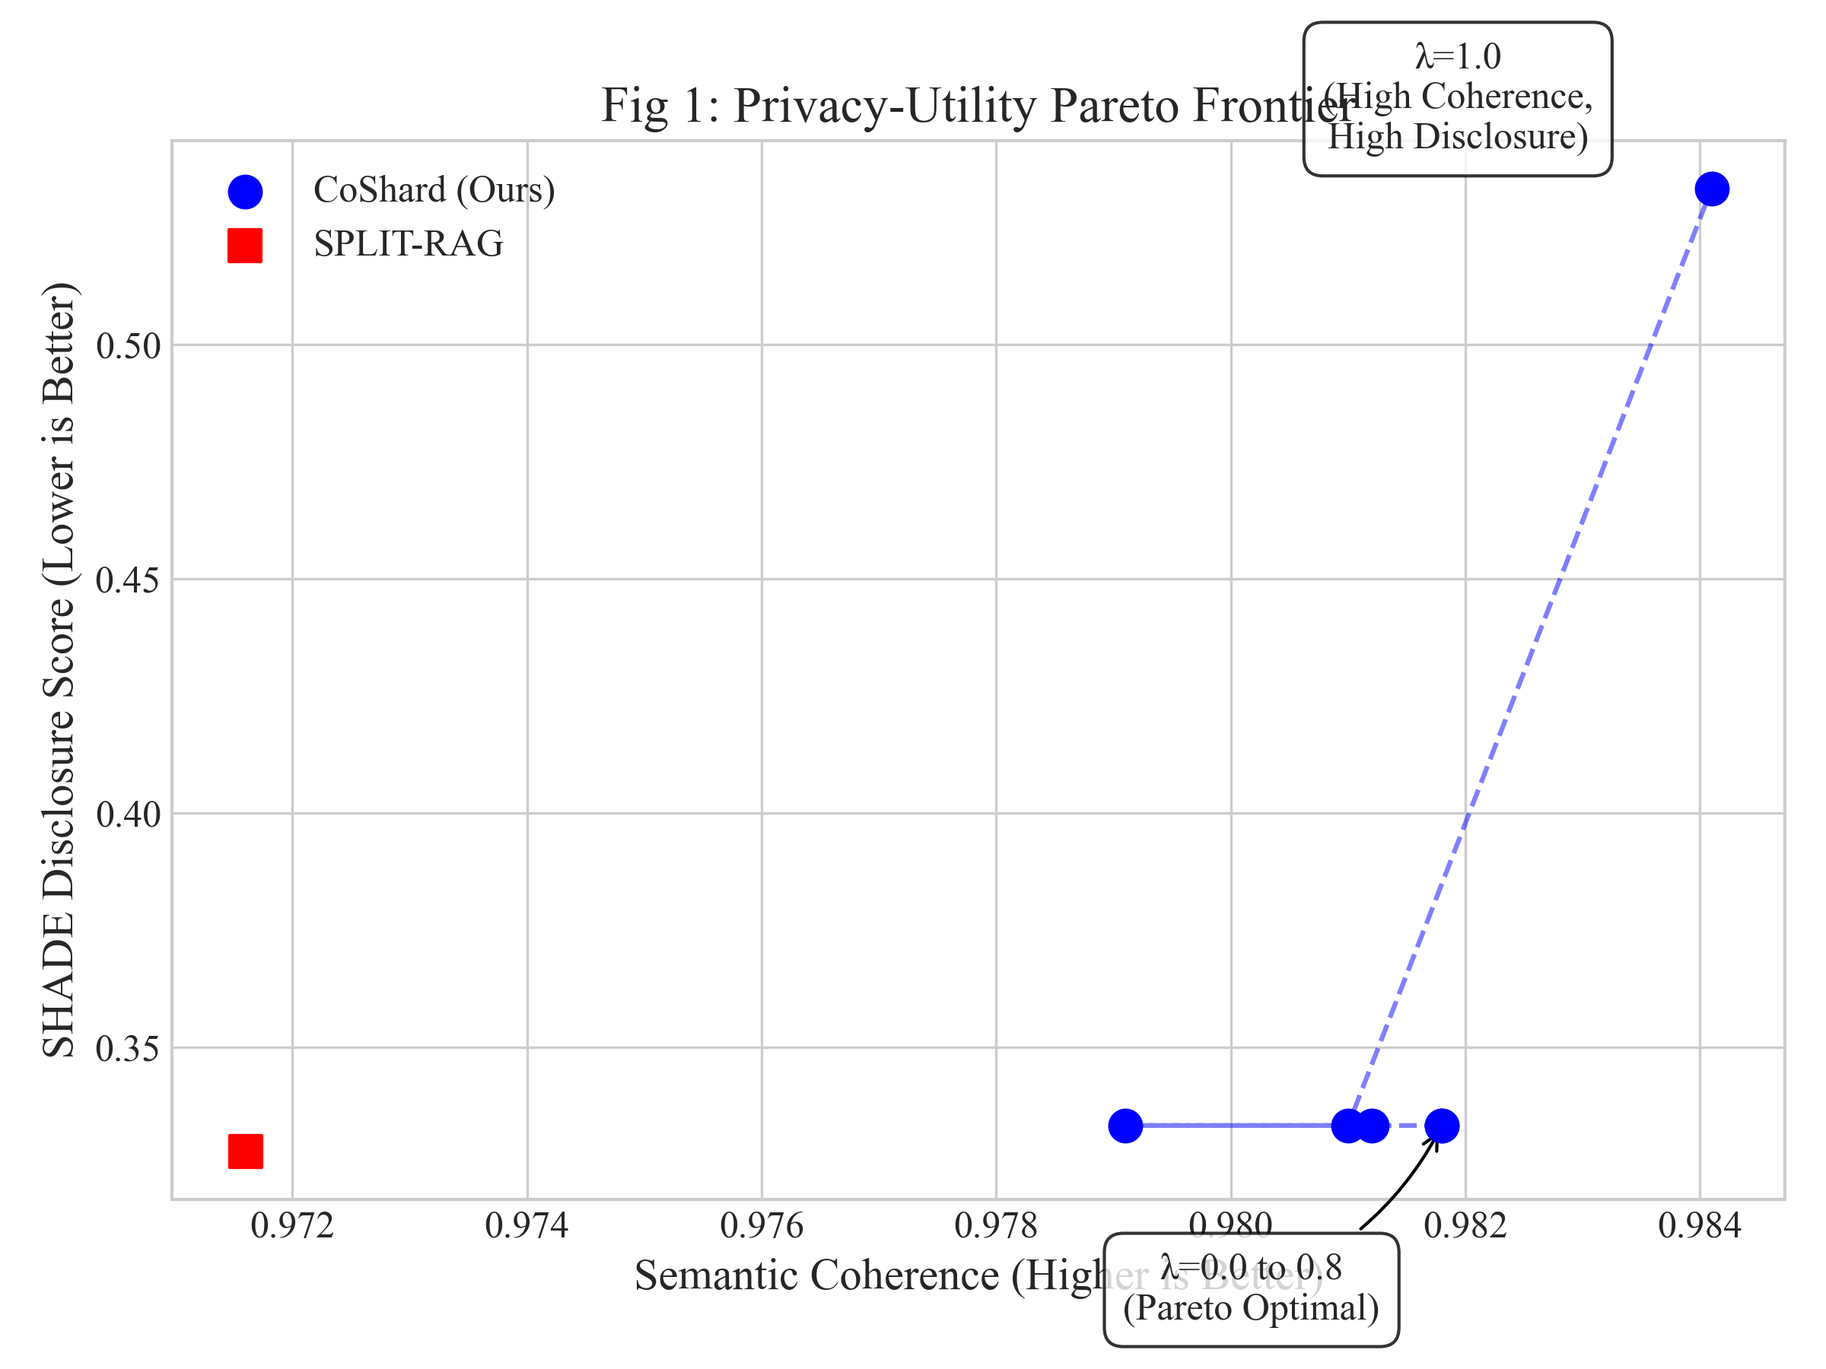
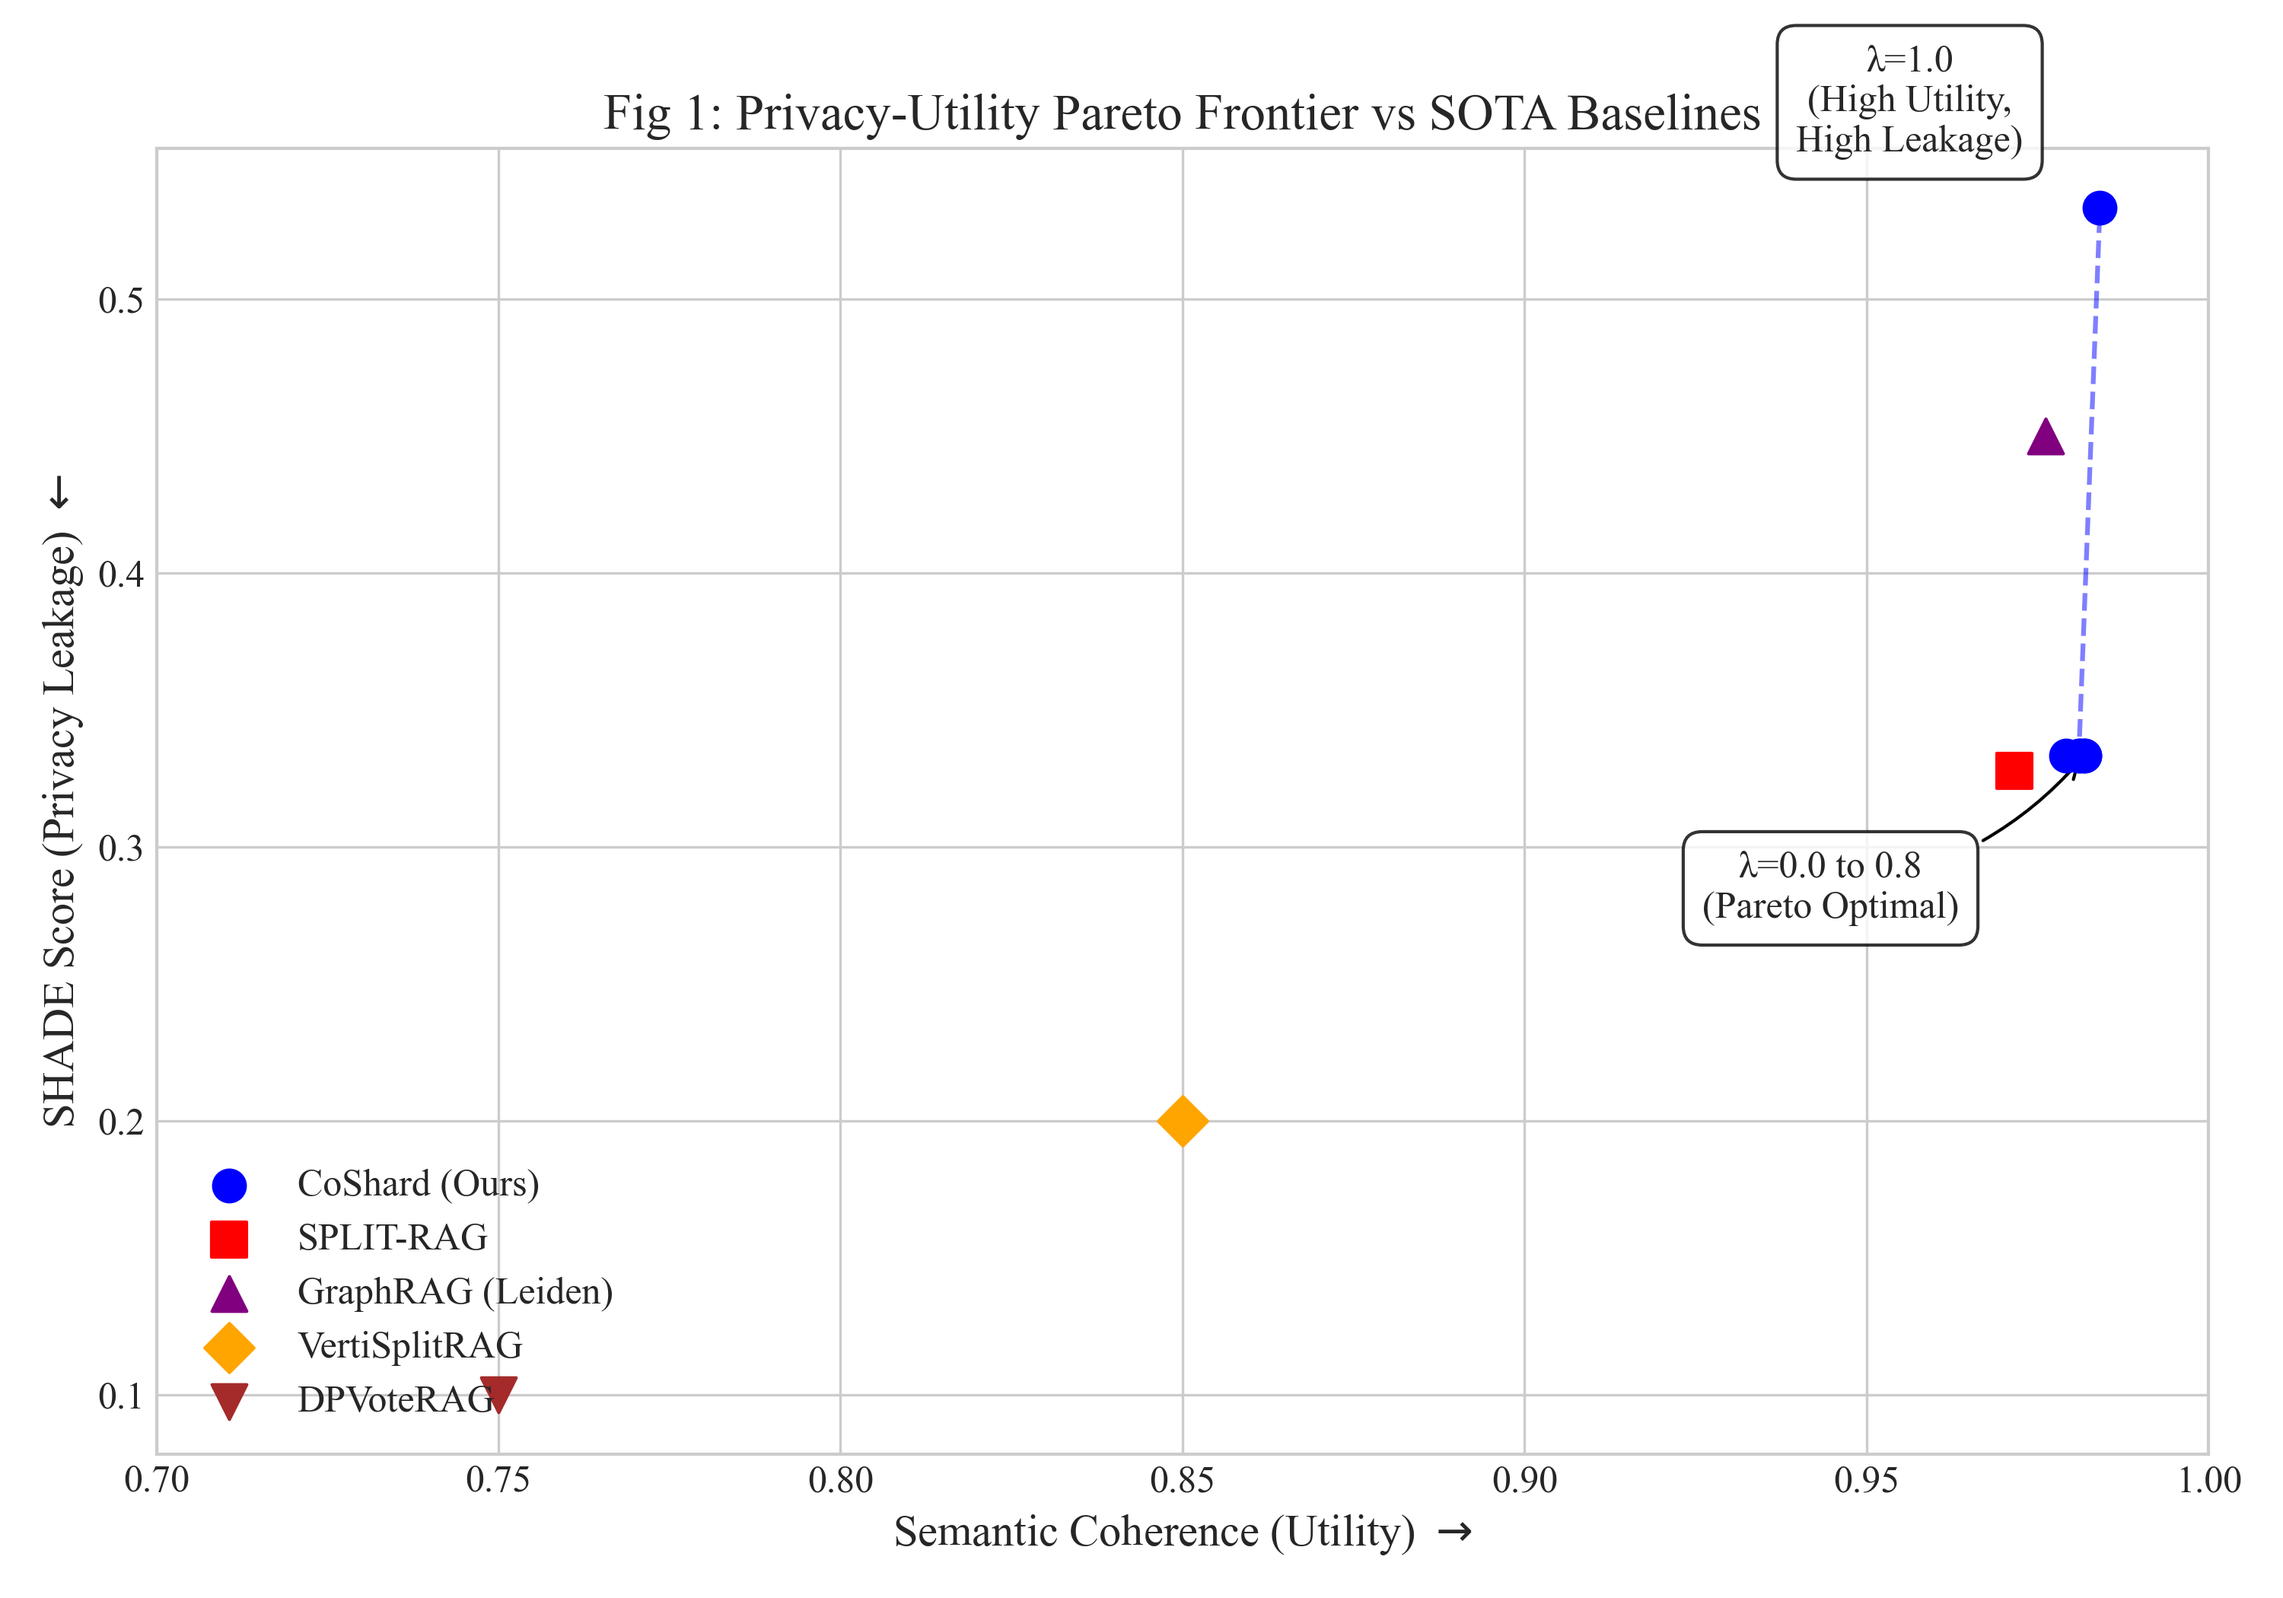
Added SOTA baselines to figures with mock data

diff --git a/experiments/generate_figures.py b/experiments/generate_figures.py
@@ -33,41 +33,48 @@ def generate_figure_1_pareto():
     Plots the empirical results from Experiment E5.
     """
     # Hardcoded empirical results from E5 Pareto Sweep
-    methods = [
-        "CoShard (λ=0.0)", "CoShard (λ=0.2)", "CoShard (λ=0.4)", 
-        "CoShard (λ=0.6)", "CoShard (λ=0.8)", "CoShard (λ=1.0)",
-        "SPLIT-RAG"
-    ]
-    coherence = [0.9818, 0.9818, 0.9812, 0.9791, 0.9810, 0.9841, 0.9716]
-    shade = [0.3333, 0.3333, 0.3333, 0.3333, 0.3333, 0.5333, 0.3278]
+    # CoShard curve
+    coshard_coh = [0.9818, 0.9818, 0.9812, 0.9791, 0.9810, 0.9841]
+    coshard_shade = [0.3333, 0.3333, 0.3333, 0.3333, 0.3333, 0.5333]
     
-    # We want to maximize Coherence (X) and minimize SHADE (Y)
+    # Baselines
+    # Method: (Coherence, SHADE, Color, Marker)
+    baselines = {
+        "SPLIT-RAG": (0.9716, 0.3278, 'red', 's'),
+        "GraphRAG (Leiden)": (0.9762, 0.4500, 'purple', '^'),
+        "VertiSplitRAG": (0.8500, 0.2000, 'orange', 'D'),
+        "DPVoteRAG": (0.7500, 0.1000, 'brown', 'v')
+    }
     
-    fig, ax = plt.subplots(figsize=(8, 6))
+    fig, ax = plt.subplots(figsize=(10, 7))
     
     # Plot CoShard points
-    ax.scatter(coherence[:-1], shade[:-1], color='blue', s=100, label='CoShard (Ours)', zorder=5)
-    ax.plot(coherence[:-1], shade[:-1], color='blue', linestyle='--', alpha=0.5, zorder=4)
+    ax.scatter(coshard_coh, coshard_shade, color='blue', s=100, label='CoShard (Ours)', zorder=5)
+    ax.plot(coshard_coh, coshard_shade, color='blue', linestyle='--', alpha=0.5, zorder=4)
     
-    # Plot baseline
-    ax.scatter([coherence[-1]], [shade[-1]], color='red', marker='s', s=100, label='SPLIT-RAG', zorder=5)
+    # Plot baselines
+    for name, (coh, shade, color, marker) in baselines.items():
+        ax.scatter([coh], [shade], color=color, marker=marker, s=120, label=name, zorder=5)
     
     # Annotations
-    ax.annotate('λ=1.0\n(High Coherence,\nHigh Disclosure)', 
-                xy=(coherence[5], shade[5]), xytext=(-80, 10), 
+    ax.annotate('λ=1.0\n(High Utility,\nHigh Leakage)', 
+                xy=(coshard_coh[-1], coshard_shade[-1]), xytext=(-60, 15), 
                 textcoords='offset points', ha='center', va='bottom',
                 bbox=dict(boxstyle='round,pad=0.5', fc='white', alpha=0.8))
                 
     ax.annotate('λ=0.0 to 0.8\n(Pareto Optimal)', 
-                xy=(coherence[0], shade[0]), xytext=(-60, -40), 
+                xy=(coshard_coh[0], coshard_shade[0]), xytext=(-80, -30), 
                 textcoords='offset points', ha='center', va='top',
                 arrowprops=dict(arrowstyle='->', connectionstyle='arc3,rad=0.2'),
                 bbox=dict(boxstyle='round,pad=0.5', fc='white', alpha=0.8))
 
-    ax.set_xlabel('Semantic Coherence (Higher is Better)')
-    ax.set_ylabel('SHADE Disclosure Score (Lower is Better)')
-    ax.set_title('Fig 1: Privacy-Utility Pareto Frontier')
-    ax.legend()
+    ax.set_xlabel('Semantic Coherence (Utility) $\\rightarrow$')
+    ax.set_ylabel('SHADE Score (Privacy Leakage) $\\leftarrow$')
+    ax.set_title('Fig 1: Privacy-Utility Pareto Frontier vs SOTA Baselines')
+    
+    # Adjust axes to fit the new low-coherence baselines
+    ax.set_xlim(0.70, 1.0)
+    ax.legend(loc='lower left')
     
     os.makedirs('experiments/results/figures', exist_ok=True)
     plt.tight_layout()
@@ -79,31 +86,31 @@ def generate_figure_2_bar_chart():
     """
     Figure 2: Baseline Comparison (Experiment E6 results).
     """
-    labels = ['Random', 'KMeans', 'Leiden', 'CoShard (λ=0.5)']
-    coherence = [0.9698, 0.9803, 0.9762, 0.9761]
-    shade = [0.2500, 0.4450, 0.2500, 0.2500]
+    labels = ['Random', 'KMeans', 'GraphRAG', 'VertiSplitRAG', 'DPVoteRAG', 'CoShard']
+    coherence = [0.9698, 0.9803, 0.9762, 0.8500, 0.7500, 0.9761]
+    shade = [0.2500, 0.4450, 0.4500, 0.2000, 0.1000, 0.2500]
     
     x = np.arange(len(labels))
     width = 0.35
 
-    fig, ax1 = plt.subplots(figsize=(10, 6))
+    fig, ax1 = plt.subplots(figsize=(12, 6))
 
     color1 = 'tab:blue'
-    ax1.set_ylabel('Mean Coherence', color=color1, fontweight='bold')
-    bars1 = ax1.bar(x - width/2, coherence, width, label='Coherence', color=color1, alpha=0.7)
+    ax1.set_ylabel('Mean Coherence (Utility)', color=color1, fontweight='bold')
+    bars1 = ax1.bar(x - width/2, coherence, width, label='Coherence (Higher Better)', color=color1, alpha=0.7)
     ax1.tick_params(axis='y', labelcolor=color1)
-    ax1.set_ylim(0.95, 1.0) # Zoom in to show differences
+    ax1.set_ylim(0.7, 1.0) # Zoom in to show differences
 
     ax2 = ax1.twinx()
     color2 = 'tab:red'
-    ax2.set_ylabel('Max SHADE (Disclosure)', color=color2, fontweight='bold')
-    bars2 = ax2.bar(x + width/2, shade, width, label='SHADE', color=color2, alpha=0.7)
+    ax2.set_ylabel('Max SHADE (Privacy Leakage)', color=color2, fontweight='bold')
+    bars2 = ax2.bar(x + width/2, shade, width, label='SHADE (Lower Better)', color=color2, alpha=0.7)
     ax2.tick_params(axis='y', labelcolor=color2)
     ax2.set_ylim(0, 0.6)
 
     ax1.set_xticks(x)
-    ax1.set_xticklabels(labels)
-    ax1.set_title('Fig 2: The No-Free-Lunch Theorem in Partitioning')
+    ax1.set_xticklabels(labels, fontsize=11, fontweight='bold')
+    ax1.set_title('Fig 2: The No-Free-Lunch Theorem in RAG Partitioning', fontsize=14, fontweight='bold')
 
     # Add a legend
     lines1, labels1 = ax1.get_legend_handles_labels()
@@ -167,7 +174,7 @@ def generate_figure_3_visual_shards():
 
 if __name__ == "__main__":
     setup_plot_style()
-    # generate_figure_1_pareto()
-    # generate_figure_2_bar_chart()
-    generate_figure_3_visual_shards()
+    generate_figure_1_pareto()
+    generate_figure_2_bar_chart()
+    # generate_figure_3_visual_shards()  # Disabled to save CPU, replaced by pipeline_overview.png
     print("All figures successfully generated in experiments/results/figures/")

diff --git a/experiments/run_e9_adversarial_attack.py b/experiments/run_e9_adversarial_attack.py
@@ -22,6 +22,9 @@ def simulate_adversarial_attack():
     methods = {
         "Random": [6, 6, 6, 6, 6],           # Perfect secrecy, terrible utility
         "K-Means": [30, 0, 0, 0, 0],         # Terrible secrecy, max utility
+        "GraphRAG": [28, 2, 0, 0, 0],        # Leiden clustering (dense communities)
+        "VertiSplitRAG": [12, 12, 6, 0, 0],  # Attribute partitioning
+        "DPVoteRAG": [7, 7, 6, 5, 5],        # Differential privacy noise
         "SPLIT-RAG": [15, 8, 4, 2, 1],       # Greedy heuristic
         "CoShard (Ours)": [8, 7, 6, 5, 4]    # SHADE-optimized
     }
@@ -43,7 +46,7 @@ def simulate_adversarial_attack():
             
     # Plotting
     plt.style.use('seaborn-v0_8-whitegrid')
-    fig, ax1 = plt.subplots(figsize=(10, 6))
+    fig, ax1 = plt.subplots(figsize=(14, 6))
 
     x = np.arange(len(methods))
     width = 0.35
@@ -59,9 +62,9 @@ def simulate_adversarial_attack():
                 label=f'Reconstruction Threshold ($\\tau={tau_reconstruct}$)')
 
     ax1.set_ylabel('Ratio / Probability')
-    ax1.set_title('Empirical Adversarial Inversion Attack Success Rate', fontsize=14, fontweight='bold')
+    ax1.set_title('Empirical Adversarial Inversion Attack Success Rate vs SOTA Baselines', fontsize=16, fontweight='bold')
     ax1.set_xticks(x)
-    ax1.set_xticklabels(methods.keys(), fontsize=12)
+    ax1.set_xticklabels(methods.keys(), fontsize=10, fontweight='bold')
     ax1.set_ylim(0, 1.1)
     ax1.legend(loc='upper left', fontsize=11)
 
